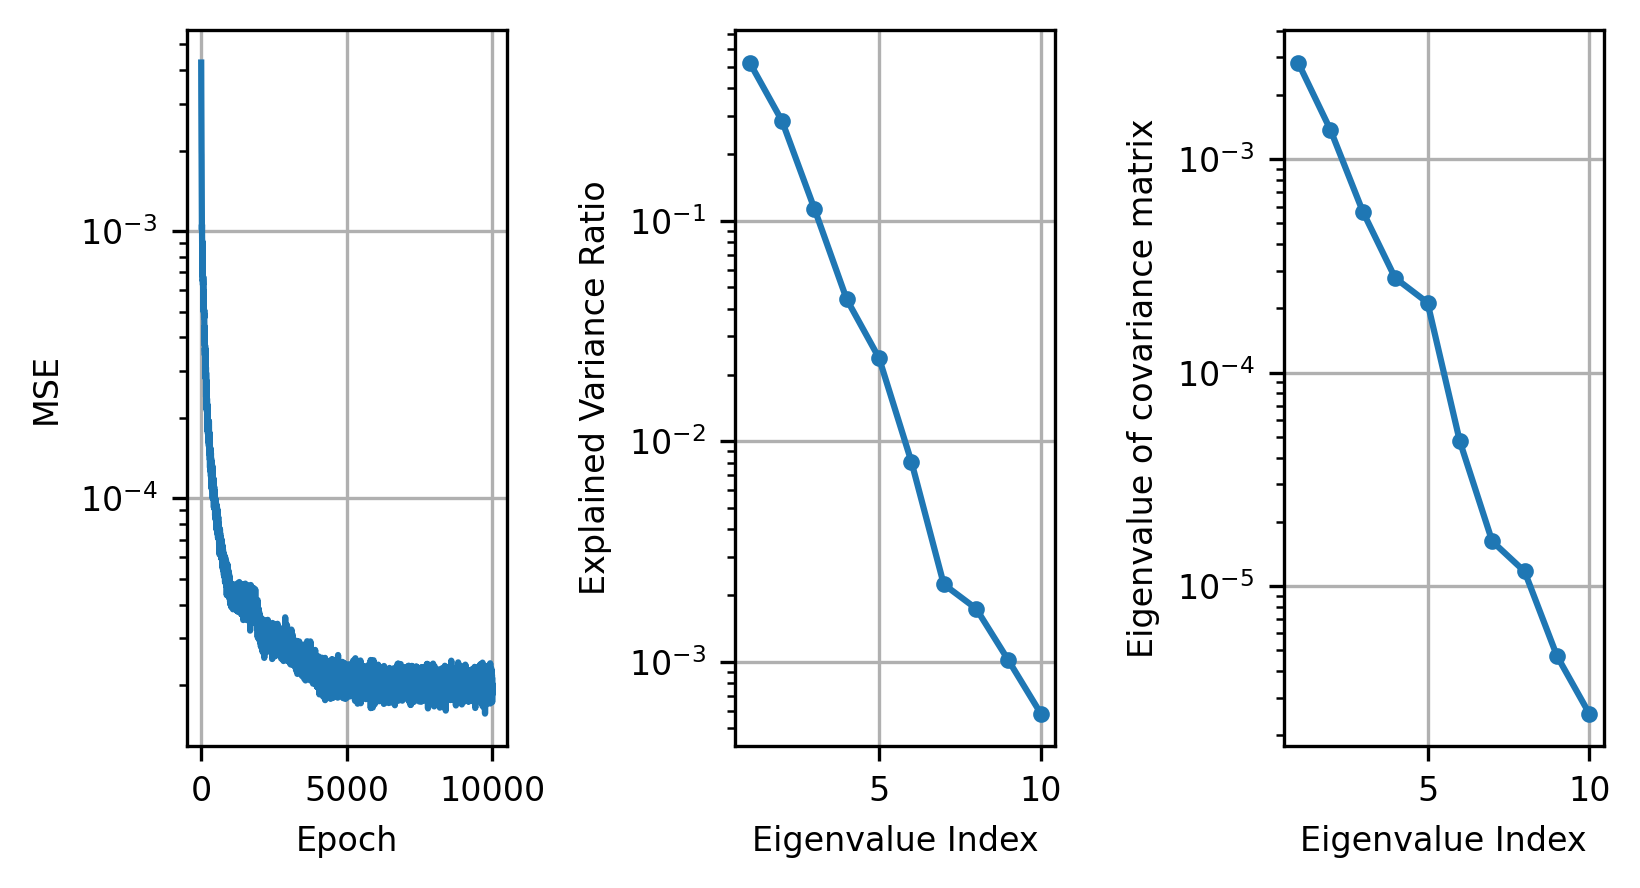
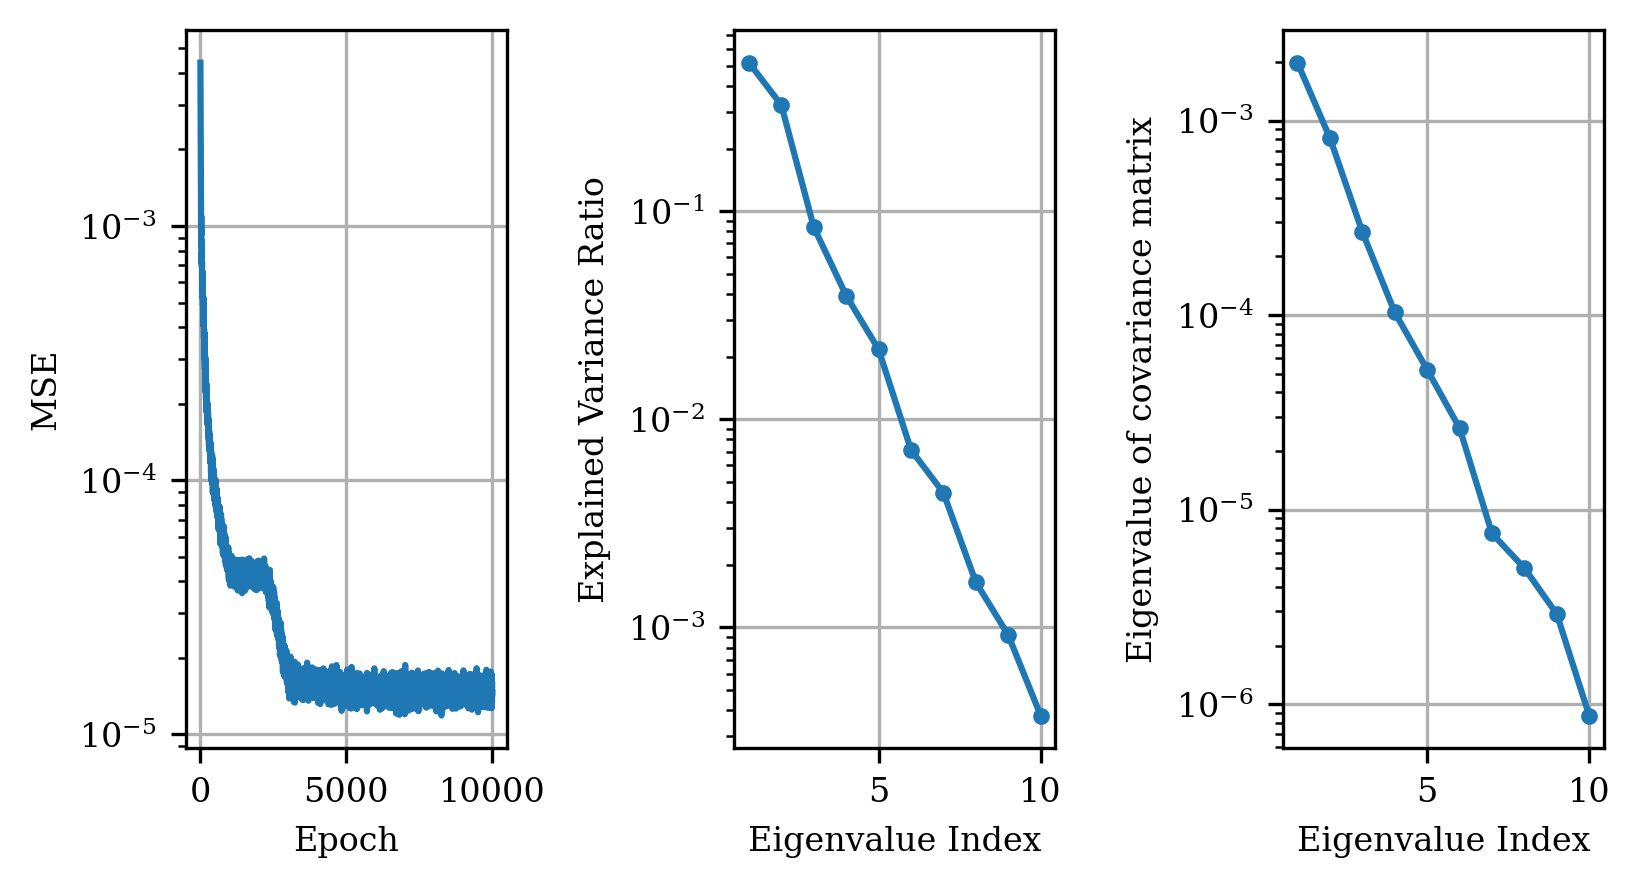
Modify plots

diff --git a/function_encoder/utils/experiment_plotter.py b/function_encoder/utils/experiment_plotter.py
@@ -147,18 +147,20 @@ class ExperimentPlotter:
             for basis_idx in range(min(8, num_basis)):
                 ax = axes[basis_idx]
 
+                # Create different vector fields for each basis function
                 if problem_type == "kepler":
-                    # Kepler vector field
+                    # Vary the vector field for each basis (e.g., different orbital parameters)
+                    M_central = 1.0 + 0.2 * basis_idx  # Vary central mass
                     r = np.sqrt(X**2 + Y**2 + 1e-8)
                     U = -Y / r  # Tangential velocity
                     V = X / r
-                    speed = np.sqrt(1.0 / r)  # Use default M=1.0
+                    speed = np.sqrt(M_central / r)  # Different M for each basis
                     U *= speed
                     V *= speed
 
                 elif problem_type == "vdp":
-                    # Van der Pol vector field: dx/dt = y, dy/dt = μ(1-x²)y - x
-                    mu = 1.0  # Default parameter
+                    # Van der Pol vector field with different μ for each basis
+                    mu = 0.5 + 0.3 * basis_idx  # Vary damping parameter
                     U = Y
                     V = mu * (1 - X**2) * Y - X
 
@@ -169,13 +171,17 @@ class ExperimentPlotter:
                 ax.set_title(f"φ{basis_idx+1}")
                 ax.grid(True, alpha=0.3)
 
-                # Remove x-axis labels from top row
+                # Only show x-axis labels on bottom row
                 if basis_idx < 4:
-                    ax.set_xlabel("")
                     ax.tick_params(axis='x', labelbottom=False)
                 else:
                     ax.set_xlabel("X")
-                ax.set_ylabel("Y")
+
+                # Only show y-axis labels on left column
+                if basis_idx % 4 == 0:
+                    ax.set_ylabel("Y")
+                else:
+                    ax.tick_params(axis='y', labelleft=False)
 
             # Hide unused subplots
             for i in range(num_basis, 8):
@@ -186,11 +192,10 @@ class ExperimentPlotter:
                 plt.savefig(save_dir / f"{problem_type}_progressive_streamplot.png", bbox_inches='tight')
             plt.show()
 
-        # Plot 3: Dynamics - Based on original polynomial_pca.py structure
+        # Plot 3: Dynamics
         viz_data = data["visualization_data"]
 
         if problem_type == "polynomial":
-            # Single function plot - exactly like polynomial_pca.py
             fig, ax = plt.subplots(1, 1)
 
             X_sorted = viz_data["X_sorted"]
@@ -245,12 +250,13 @@ class ExperimentPlotter:
                     handles=[plt.Line2D([0], [0], color='k', linewidth=2, label='True'),
                             plt.Line2D([0], [0], color='r', linestyle='--', linewidth=2, label='Predicted')],
                     loc="outside upper center",
-                    bbox_to_anchor=(0.5, 0.95),
+                    bbox_to_anchor=(0.5, 1.02),
                     ncol=2,
                     frameon=False,
                 )
 
                 plt.tight_layout()
+                plt.subplots_adjust(top=0.98)
                 if save_dir:
                     plt.savefig(save_dir / f"{problem_type}_progressive_dynamics.png", bbox_inches='tight')
                 plt.show()
@@ -258,7 +264,7 @@ class ExperimentPlotter:
         elif problem_type == "kepler":
             # Kepler: 2x4 grid with trajectories only
             if "trajectories_true" in viz_data and "trajectories_pred" in viz_data:
-                fig, axes = plt.subplots(2, 4, figsize=(16, 8))
+                fig, axes = plt.subplots(2, 4)
                 axes = axes.flatten()
 
                 trajectories_true = viz_data["trajectories_true"][:8]  # 2x4 = 8
@@ -300,32 +306,36 @@ class ExperimentPlotter:
                     ax_traj.set_ylim(global_ylim)
                     ax_traj.set_aspect("equal")
 
-                    # Remove x-axis labels from top row (plots 0-3)
+                    # Only show x-axis labels on bottom row (plots 4-7)
                     if plot_idx < 4:
-                        ax_traj.set_xlabel("")
                         ax_traj.tick_params(axis='x', labelbottom=False)
                     else:
                         ax_traj.set_xlabel("X Position")
 
-                    ax_traj.set_ylabel("Y Position")
+                    # Only show y-axis labels on left column (plots 0,4)
+                    if plot_idx % 4 == 0:
+                        ax_traj.set_ylabel("Y Position")
+                    else:
+                        ax_traj.tick_params(axis='y', labelleft=False)
 
                     if system_params[plot_idx] is not None:
                         ax_traj.set_title(f"M={system_params[plot_idx]:.2f}")
                     ax_traj.grid(True, alpha=0.3)
 
-                # Add overall legend for the dynamics plot
+                # Add overall legend for the dynamics plot - positioned above the plots
                 fig.legend(
                     handles=[plt.Line2D([0], [0], color='b', linewidth=2, label='True'),
                             plt.Line2D([0], [0], color='r', linestyle='--', linewidth=2, label='Predicted'),
                             plt.Line2D([0], [0], color='g', marker='o', linestyle='None', markersize=6, label='Start'),
                             plt.Line2D([0], [0], color='k', marker='o', linestyle='None', markersize=8, label='Central Body')],
                     loc='upper center',
-                    bbox_to_anchor=(0.5, 0.95),
+                    bbox_to_anchor=(0.5, 1.05),
                     ncol=4,
                     frameon=False,
                 )
 
                 plt.tight_layout()
+                plt.subplots_adjust(top=0.9)  # Make room for legend at top
                 if save_dir:
                     plt.savefig(save_dir / f"{problem_type}_progressive_dynamics.png", bbox_inches='tight')
                 plt.show()
